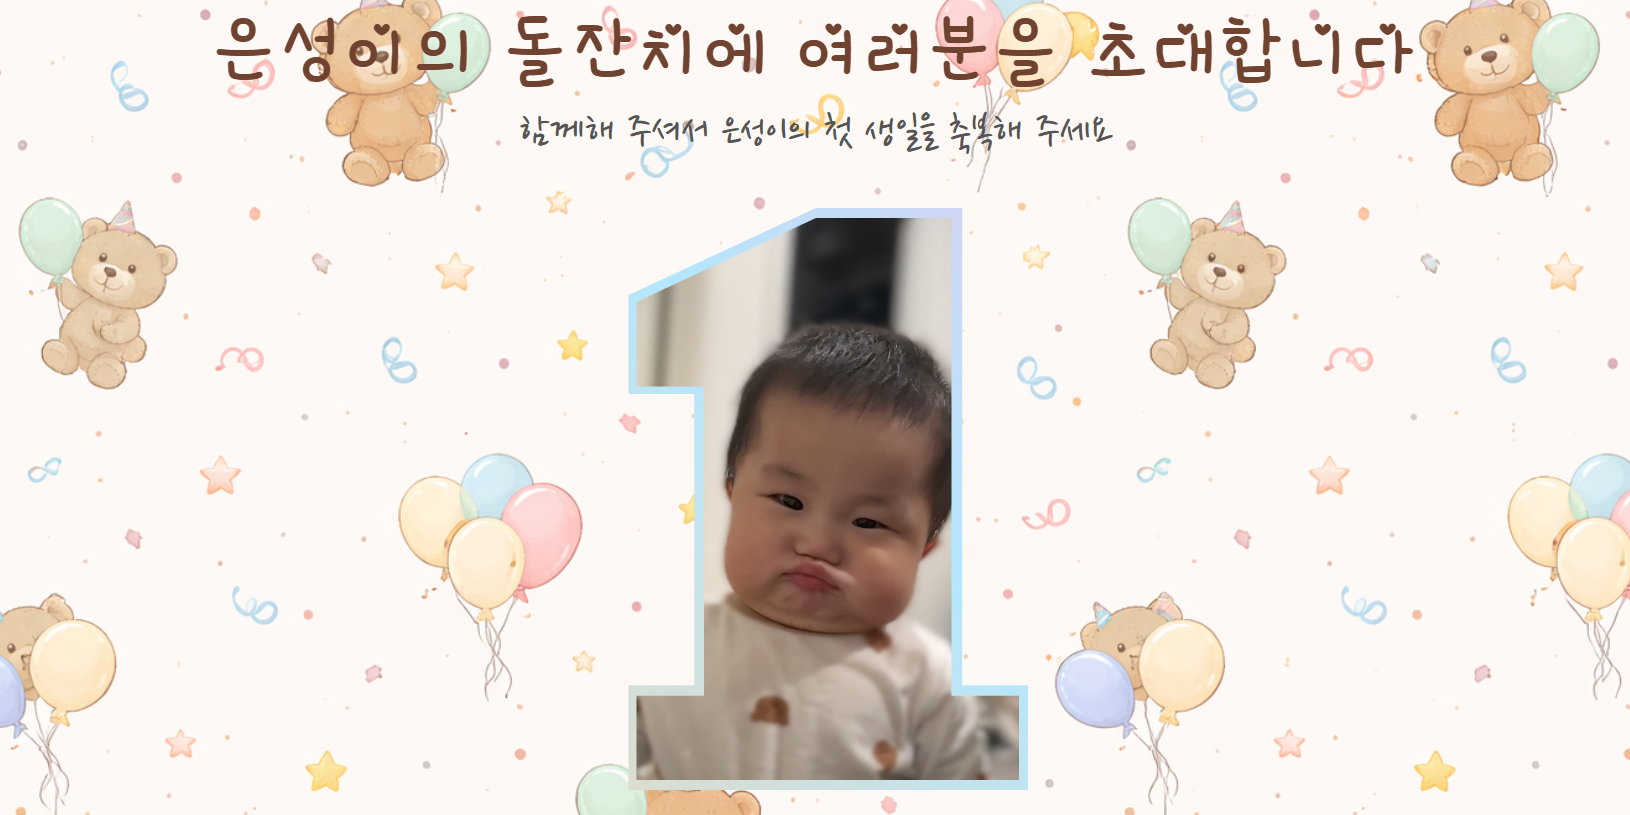
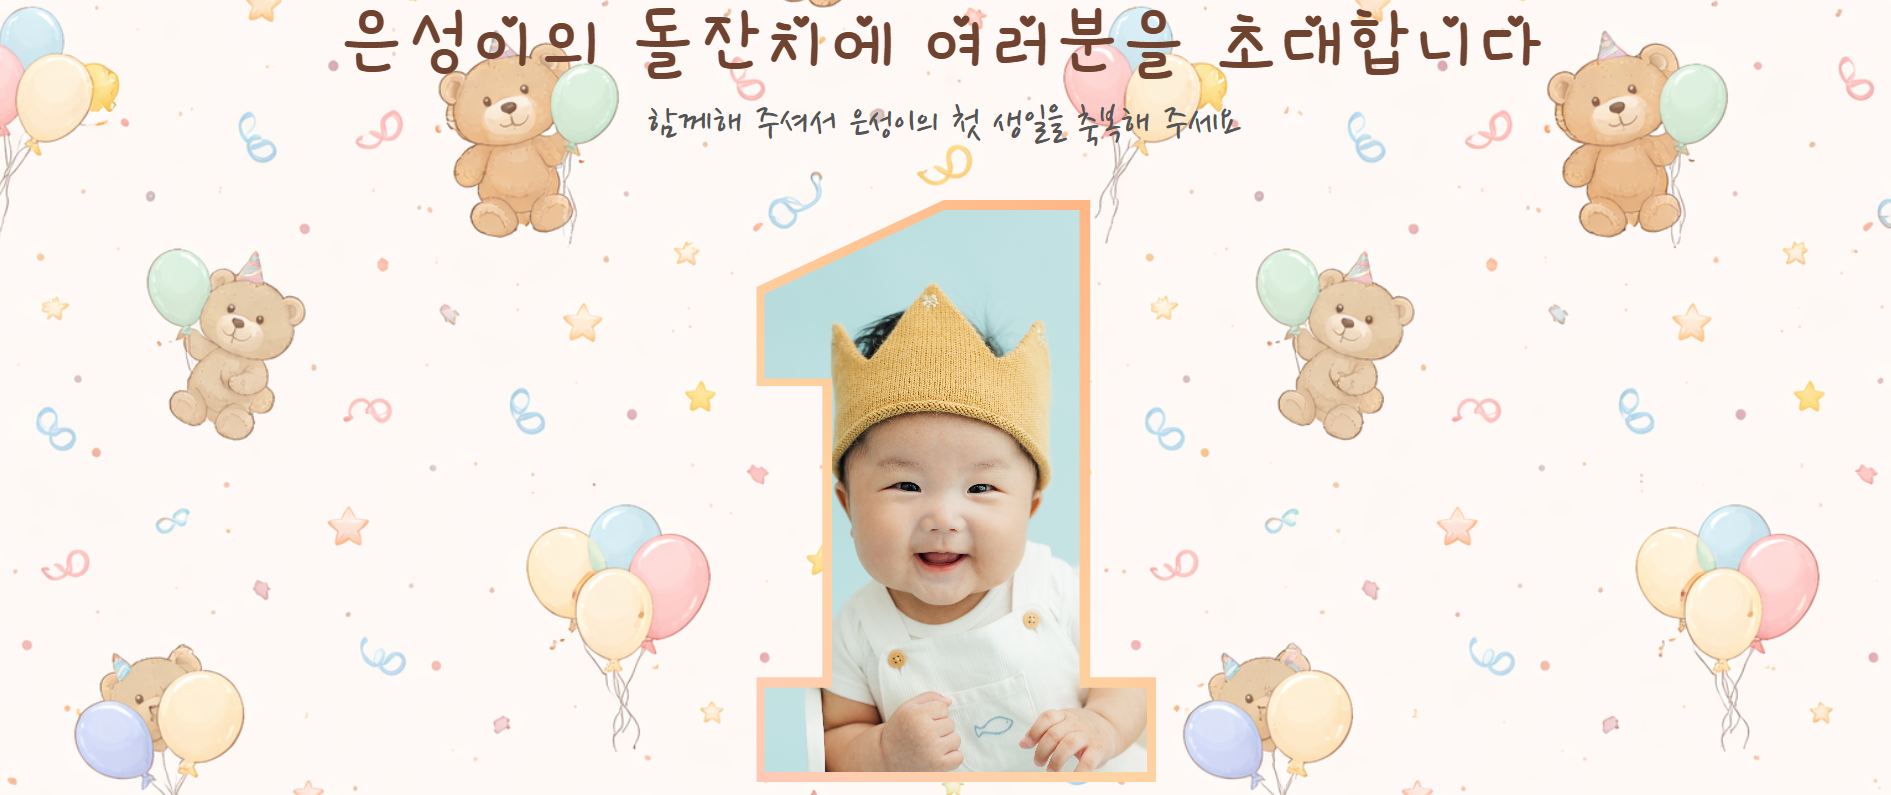
finalize images

diff --git a/app/styles/home.css b/app/styles/home.css
@@ -30,7 +30,7 @@
     left: -8px;
     width: calc(100% + 16px);
     height: calc(100% + 16px);
-    background: linear-gradient(45deg, #FFB6D9, #FFD4A3, #B4E7FF, #FFB6D9);
+    background: linear-gradient(45deg, #FFB6D9, #FFD4A3, #FF9B6B, #FFE5B4);
     background-size: 300% 300%;
     animation: gradientFlow 3s ease infinite;
     pointer-events: none;
@@ -57,7 +57,7 @@
     width: 100%;
     height: 100%;
     object-fit: cover;
-    object-position: center 65%;
+    object-position: center 30%;
     position: relative;
     z-index: 1;
     

diff --git a/app/routes/home.tsx b/app/routes/home.tsx
@@ -16,7 +16,7 @@ export default function Home() {
 
         <div className="frame-container mx-auto mb-12">
           <div className="frame-border"></div>
-          <img src="/img/temp.jpg" alt="Baby photo" />
+          <img src="/img/main.jpg" alt="Baby photo" />
         </div>
 
         <div className="info text-center mb-12">
